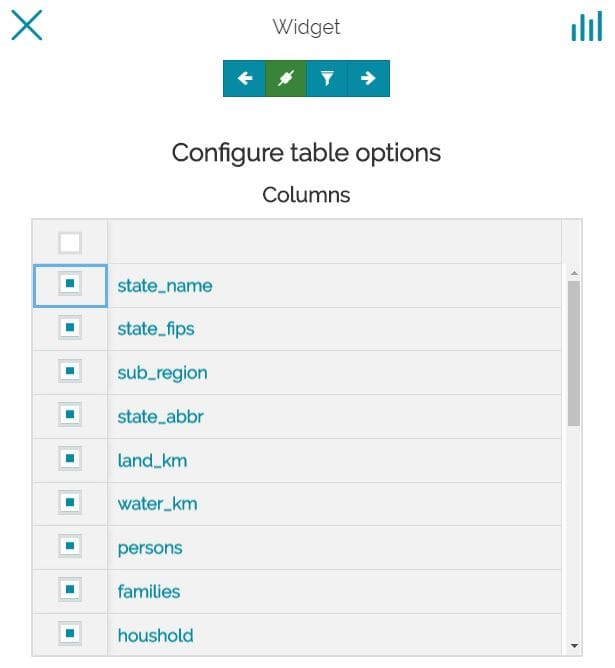
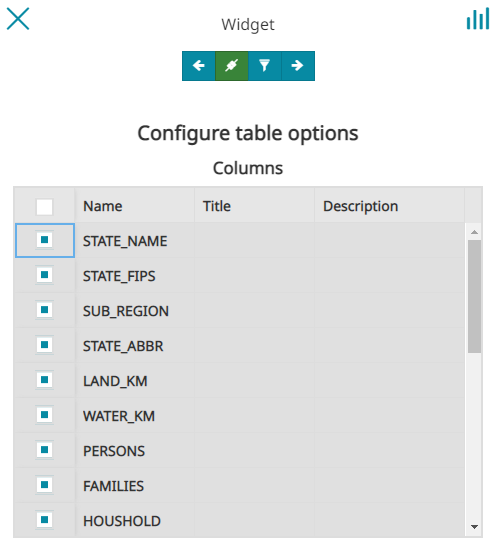
guide_8653

diff --git a/docs/user-guide/widgets.md b/docs/user-guide/widgets.md
@@ -263,10 +263,22 @@ Adding a table widget to the map, a panel like the following opens:
 
 <img src="../img/widgets/table-panel.jpg" class="ms-docimage"  style="max-width:450px;"/>
 
-The toolbar on the top of this panel is similar to the one present in [Chart section](#chart). Here the user is allowed to select the layer fields that will be displayed in the widget.
+The toolbar on the top of this panel is similar to the one present in [Chart section](#chart).Here the user is allowed to:
+
+* **Enable/Disable** the layer fields that will be displayed in the widget.
+
+<img src="../img/widgets/table-attribute.gif" class="ms-docimage"  style="max-width:450px;"/>
 
 !!!warning
     At least one field must be selected in order to move to the next configuration step.
+
+* Enter a **Title** for each column to be displayed in the table header in place of the *Name* of the layer field
+
+<img src="../img/widgets/table-title.gif" class="ms-docimage"  style="max-width:450px;"/>
+
+* Enter a **Description** for each fields to be displayed in the table through a tooltip
+
+<img src="../img/widgets/table-description.gif" class="ms-docimage"  style="max-width:450px;"/>
 
 Once the desired fields are selected, a click on the <img src="../img/button/next.jpg" class="ms-docbutton"/> button opens the following panel:
 
